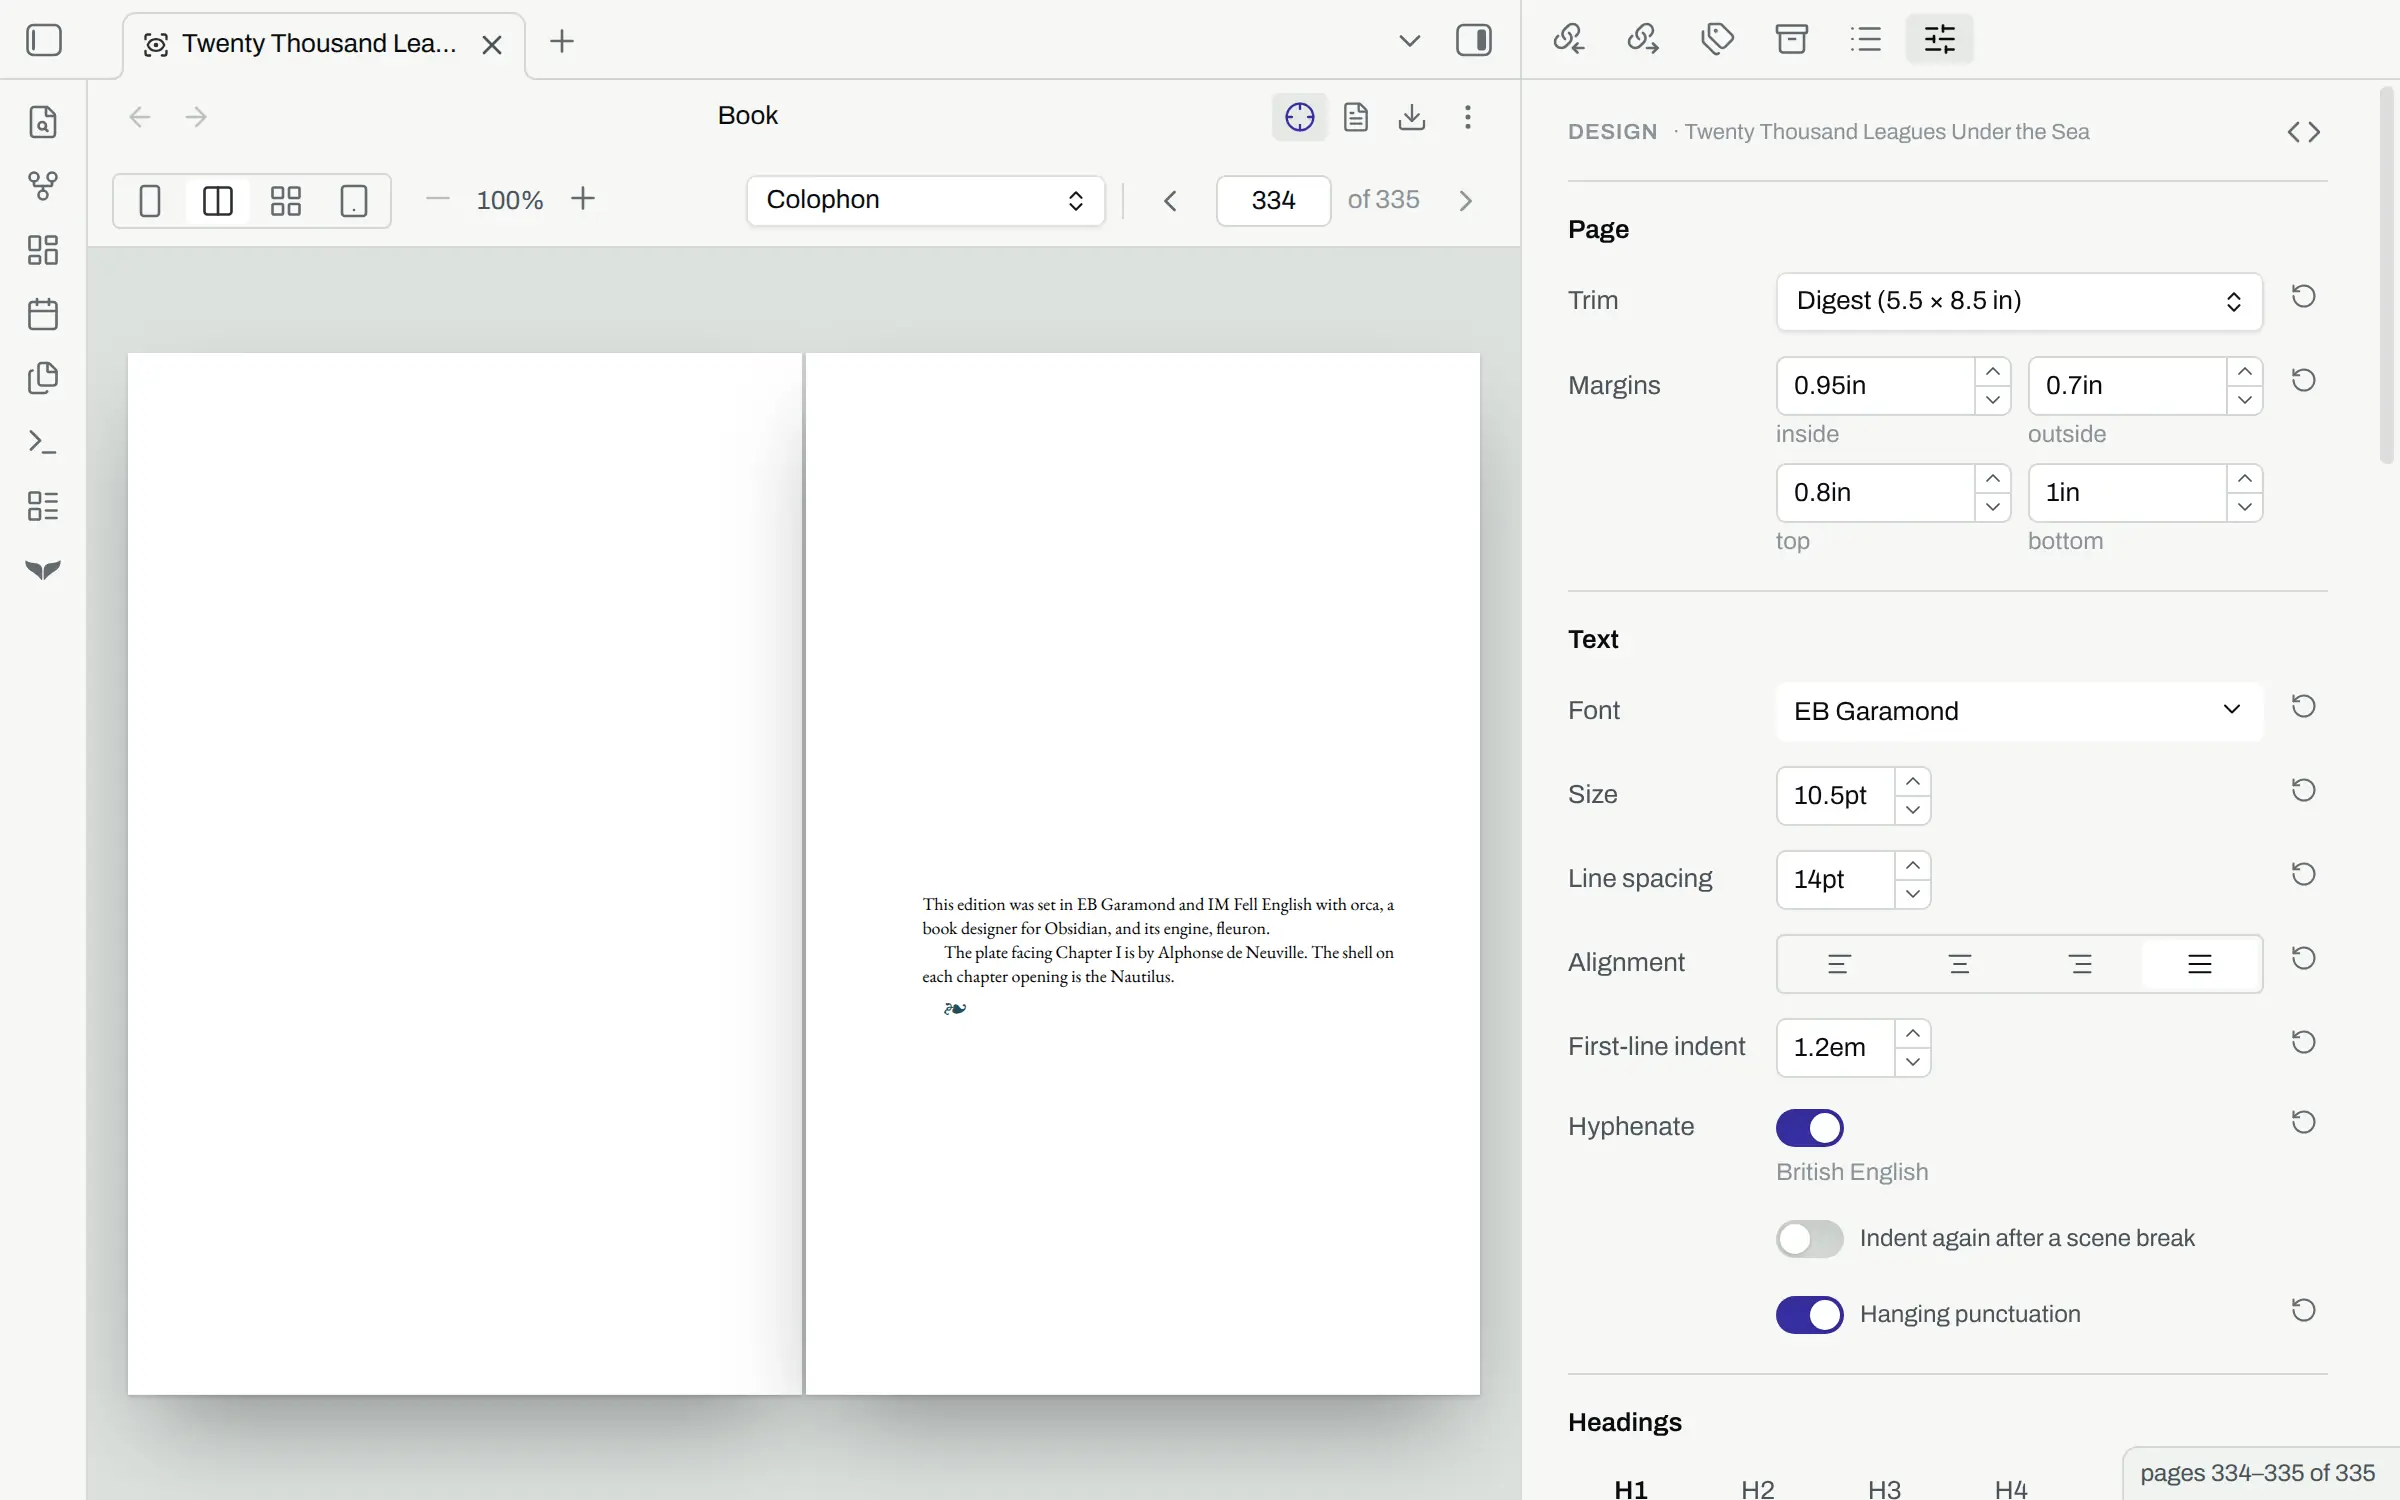
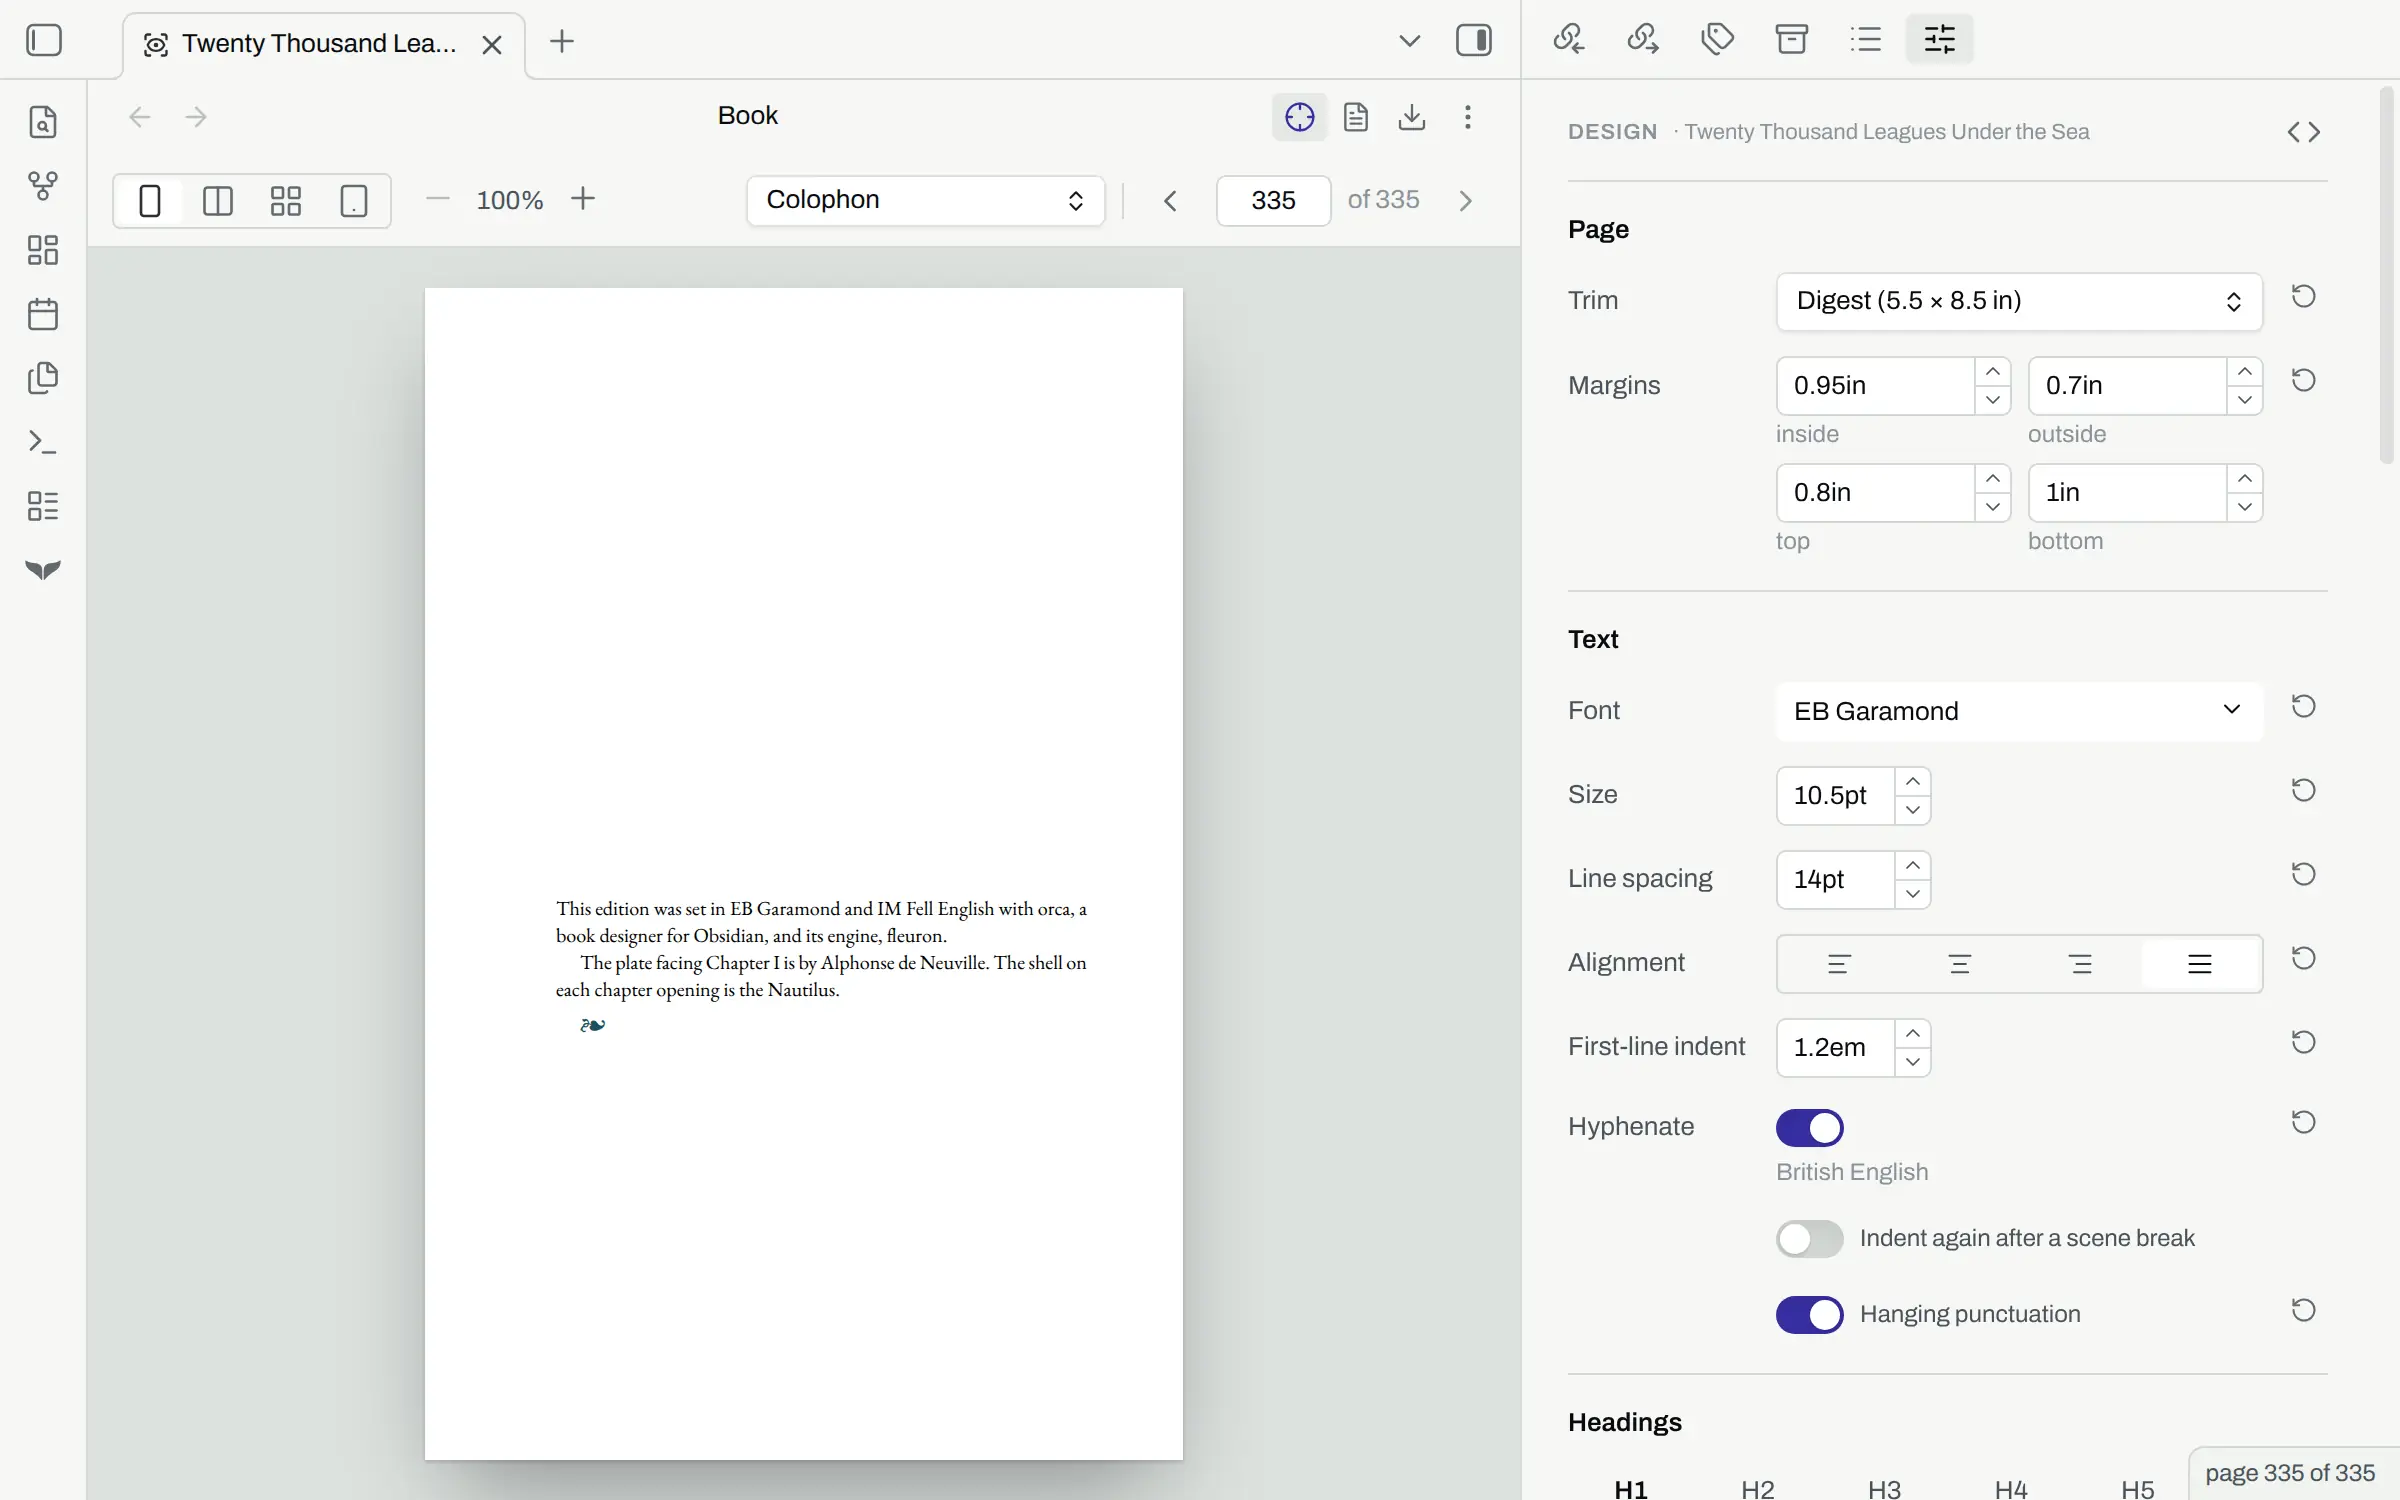
Show the colophon on one page in the CSS reel, and take it again (#354)

Changed region(s): [[0.0312, 0.184, 0.625, 1.0], [0.875, 0.9507, 0.9375, 1.0]]

diff --git a/e2e-tests/reel/css.spec.ts b/e2e-tests/reel/css.spec.ts
@@ -78,6 +78,11 @@ test("the CSS reel pins a paragraph of the colophon and writes a rule for it", a
   await expect(book.surface).toBeVisible();
   await reel.opensOn(CHAPTER, OPENS);
   await reel.opensOn(COLOPHON, SPREAD);
+  // The colophon is the spread's right page, and its left page is blank. One page shows it alone.
+  await book.show("Single page", "single");
+  await book.turnTo(LAST);
+  await reel.settled();
+  await expect(book.surface).toHaveAttribute("data-first", String(LAST));
   // The preview is the one tab in the middle, as it is in the hero.
   await obsidian.detach(NOTE);
   // The tab that is left slides into the room of the one that went.
